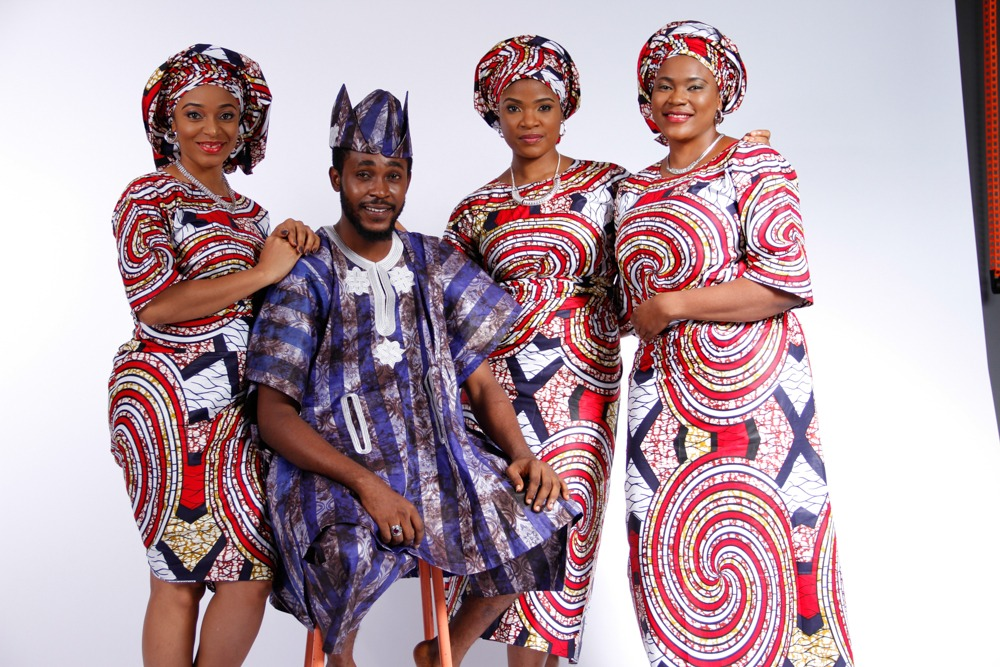
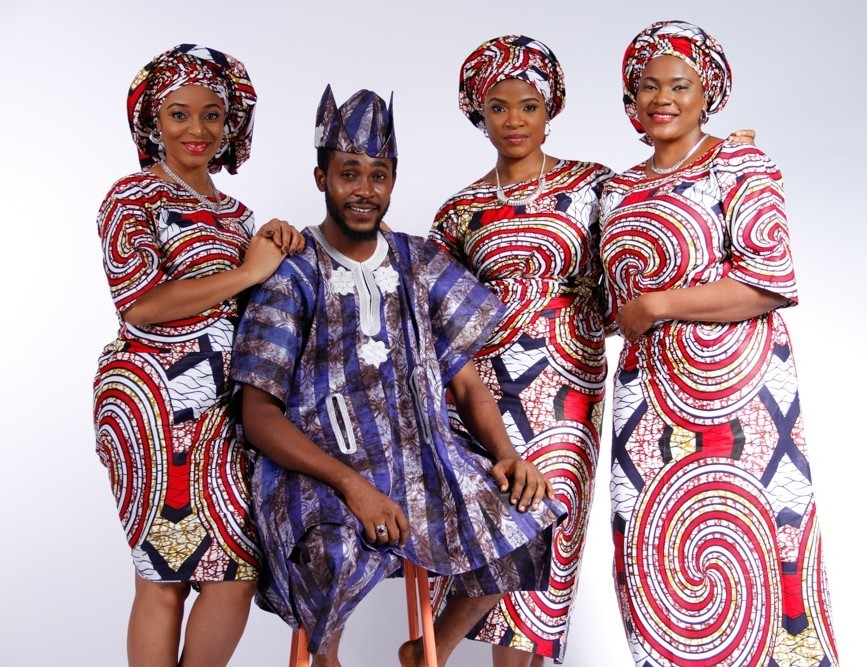
Update cart, gallery accessories, FAQ, and contact section

diff --git a/pages/about.html b/pages/about.html
@@ -171,16 +171,18 @@
             width: 100%;
             height: 360px;
             background-size: cover;
-            background-position: center;
+            background-position: center top;
         }
 
         .img-soft {
-            border-radius: 18px;
-            box-shadow: 0 18px 40px rgba(0, 0, 0, 0.18);
-            object-fit: cover;
             width: 100%;
             height: 400px;
-        }
+            border-radius: 18px;
+            box-shadow: 0 18px 40px rgba(0, 0, 0, 0.18);
+
+            object-fit: cover;
+            object-position: top center;
+        }   
 
         /* ANIMATIONS */
         .reveal {
@@ -639,7 +641,7 @@
 
                 <!-- IMAGE COLUMN (STANDS ALONE) -->
                 <div class="col-lg-6 reveal fade-right">
-                    <img src="../assets/img/gallery/A0040.jpg" alt="Divine Endowments product range" class="img-fluid img-soft">
+                    <img src="../assets/img/gallery/A0201.jpg" alt="Divine Endowments product range" class="img-fluid img-soft">
                 </div>
 
             </div>
@@ -739,7 +741,7 @@
                     <!-- Image Column (inside same white card) -->
                     <div class="col-md-6">
                         <div class="management-image"
-                            style="height: 350px; background: url('../assets/img/gallery/A0161.jpg') center/cover no-repeat; border-radius: 10px;">
+                            style="height: 350px; background: url('../assets/img/gallery/A0040.jpg') center top/cover no-repeat; border-radius: 10px;">
                         </div>
                     </div>
             

diff --git a/assets/css/style.css b/assets/css/style.css
@@ -287,7 +287,7 @@ h5 {
         /* TODO: Replace this with a key hero image from your site, e.g. a storefront or model shot */
         url('../img/hero4.png');
         background-size: cover;
-        background-position: center;
+        background-position: center top;
         background-attachment: fixed;
         display: flex;
         align-items: center;
@@ -398,7 +398,7 @@ h5 {
     /* TODO: Replace this with a real Divine Endowments campaign / store image */
     background: url('../img/gallery/A0015.jpg');
     background-size: cover;
-    background-position: center;
+    background-position: center top;
     transition: transform 0.5s;
 }
 
@@ -423,7 +423,7 @@ h5 {
     height: 100%;
     border-radius: 20%;
     background-size: cover;
-    background-position: center;
+    background-position: center top;
     transition: transform 0.7s;
 }
 
@@ -475,7 +475,7 @@ h5 {
 .product-image {
     height: 300px;
     background-size: cover;
-    background-position: center;
+    background-position: center top;
     position: relative;
 }
 
